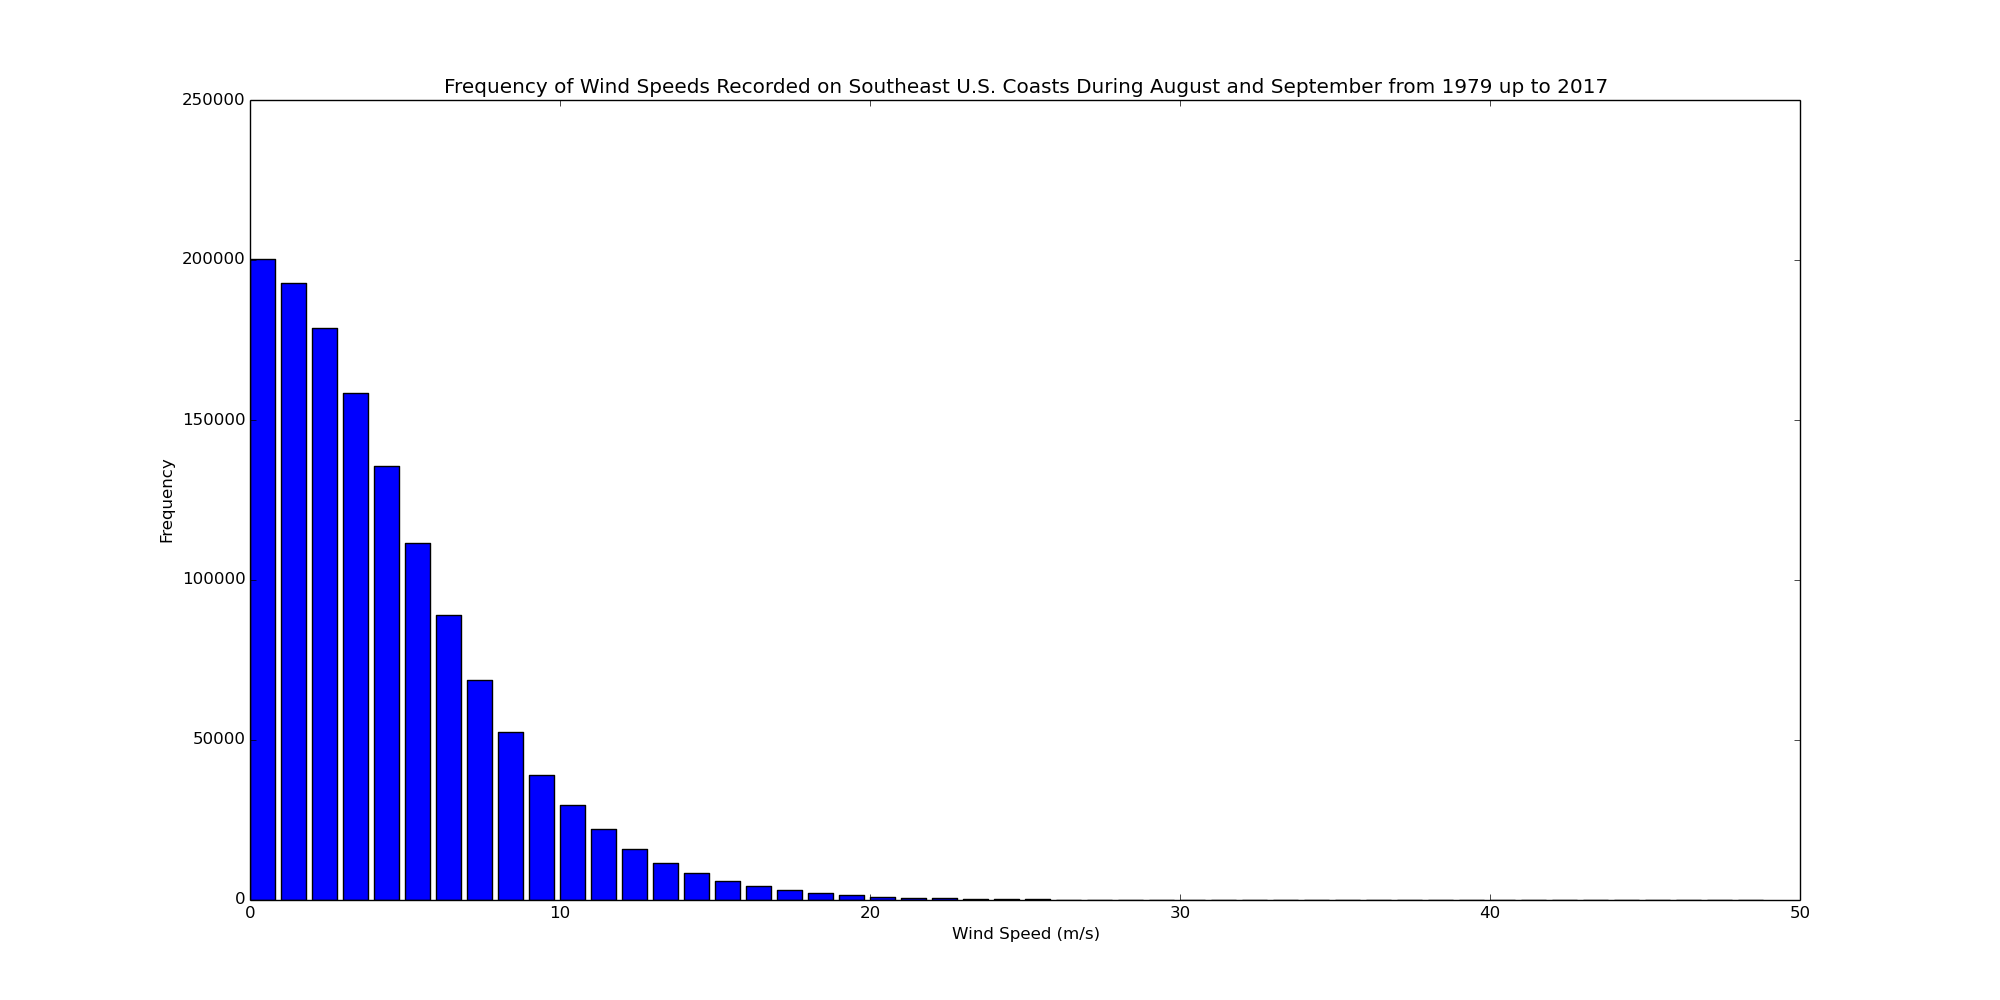
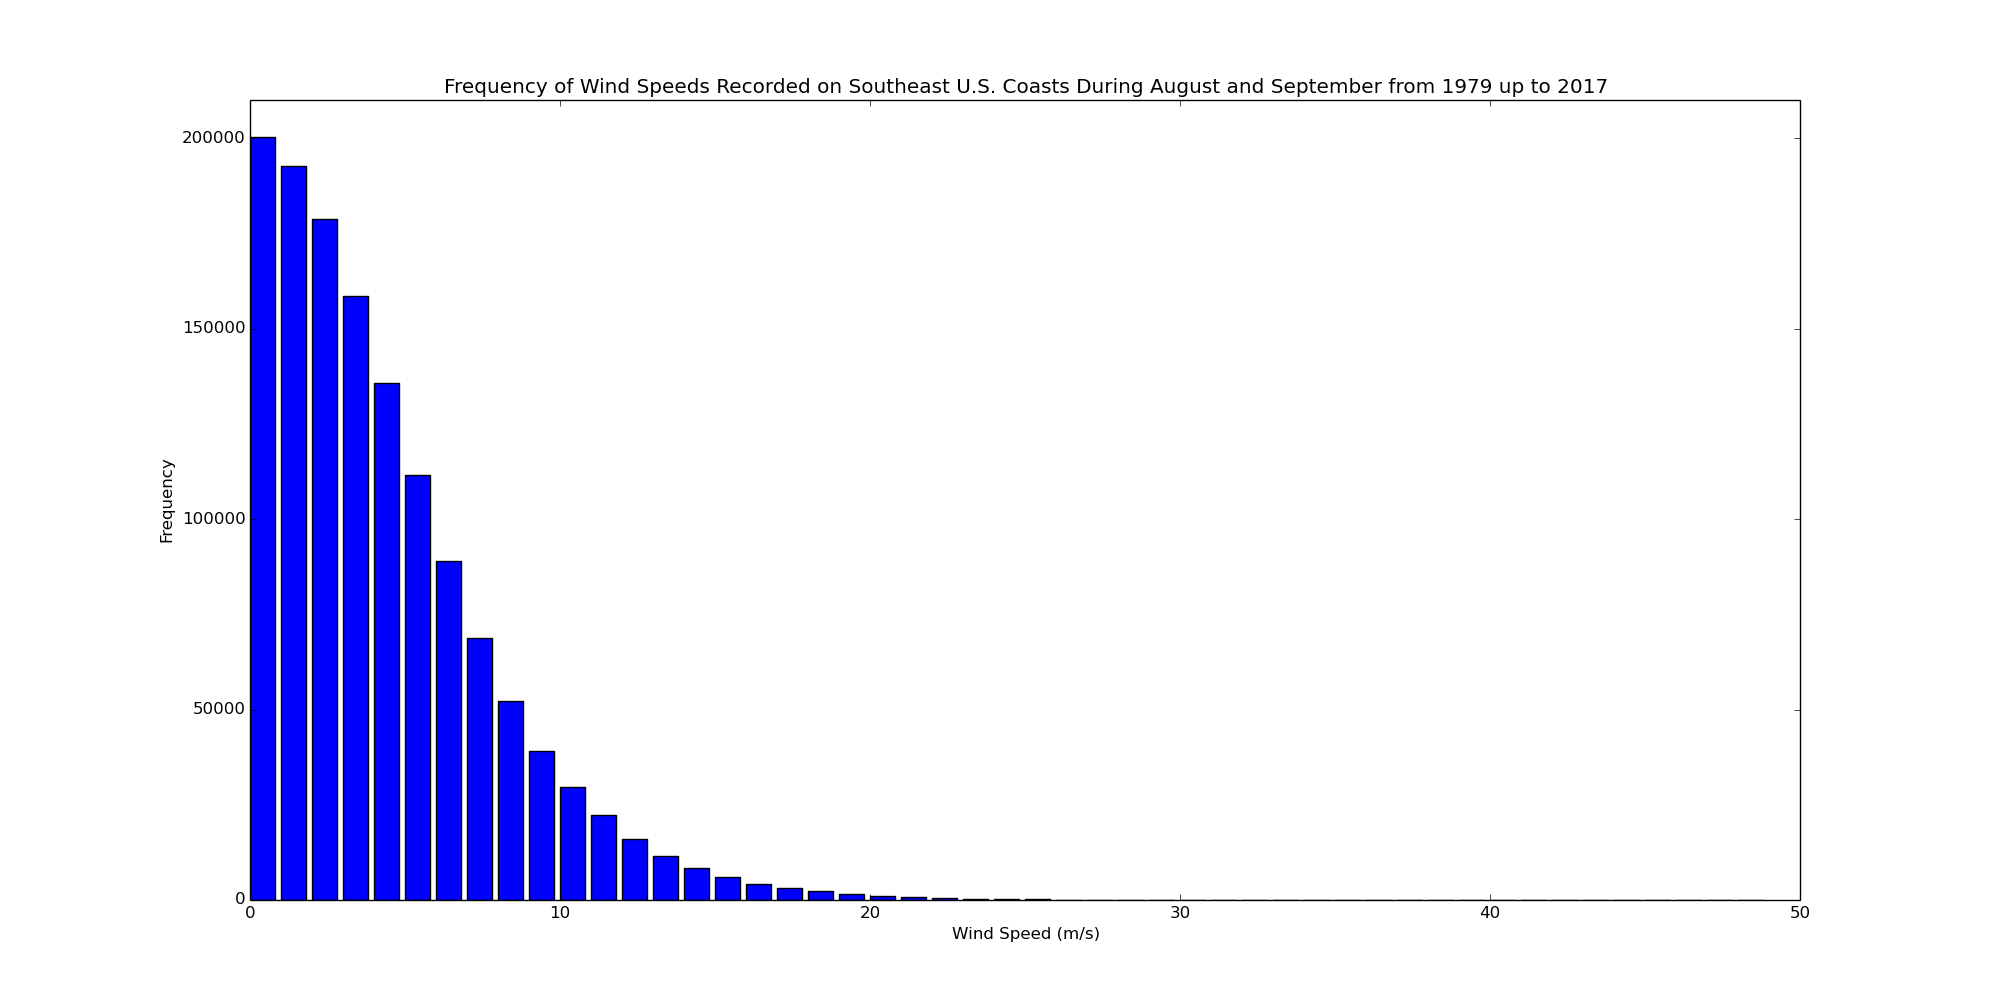
Updated figures

diff --git a/DLM_stats.py b/DLM_stats.py
@@ -278,6 +278,7 @@ getFrequencies(wind_speeds_79_16_LHS, wind_speed_freq_all_LHS)
 plt.figure(1, figsize = (20,10))
 plt.bar(np.arange(len(wind_speed_freq_all_MHS)), wind_speed_freq_all_EHS)
 plt.xlim(xmax = 50)
+plt.ylim(ymax = 210000)
 plt.ylabel('Frequency')
 plt.xlabel('Wind Speed (m/s)')
 plt.title('Frequency of Wind Speeds Recorded on Southeast U.S. Coasts During ' +
@@ -288,6 +289,7 @@ plt.show()
 plt.figure(1, figsize = (20,10))
 plt.bar(np.arange(len(wind_speed_freq_all_MHS)), wind_speed_freq_all_MHS)
 plt.xlim(xmax = 50)
+plt.ylim(ymax = 210000)
 plt.ylabel('Frequency')
 plt.xlabel('Wind Speed (m/s)')
 plt.title('Frequency of Wind Speeds Recorded on Southeast U.S. Coasts During ' +
@@ -298,6 +300,7 @@ plt.show()
 plt.figure(1, figsize = (20,10))
 plt.bar(np.arange(len(wind_speed_freq_all_LHS)), wind_speed_freq_all_LHS)
 plt.xlim(xmax = 50)
+plt.ylim(ymax = 210000)
 plt.ylabel('Frequency')
 plt.xlabel('Wind Speed (m/s)')
 plt.title('Frequency of Wind Speeds Recorded on Southeast U.S. Coasts During ' +
@@ -333,7 +336,7 @@ plt.figure(1, figsize = (20,10))
 plt.subplot(211)
 plt.bar(np.arange(len(wind_speed_freq_79_97)), wind_speed_freq_79_97)
 plt.xlim(xmax = 50)
-plt.ylim(ymax = 550000)
+plt.ylim(ymax = 250000)
 plt.ylabel('Frequency')
 plt.xlabel('Wind Speed (m/s)')
 plt.title('Frequency of Wind Speeds Recorded on Southeast U.S. Coasts During ' +
@@ -342,7 +345,7 @@ plt.title('Frequency of Wind Speeds Recorded on Southeast U.S. Coasts During ' +
 plt.subplot(212)
 plt.bar(np.arange(len(wind_speed_freq_98_16)), wind_speed_freq_98_16)
 plt.xlim(xmax = 50)
-plt.ylim(ymax = 550000)
+plt.ylim(ymax = 250000)
 plt.ylabel('Frequency')
 plt.xlabel('Wind Speed (m/s)')
 plt.title('Frequency of Wind Speeds Recorded on Southeast U.S. Coasts During ' +
@@ -515,6 +518,7 @@ plt.show()
 plt.figure(1, figsize = (20,10))
 plt.bar(np.arange(len(wind_speed_freq_LHS_diff)), wind_speed_freq_LHS_diff)
 plt.xlim(xmax = 50)
+plt.ylim(ymax = 5000)
 plt.ylabel('Frequency Difference')
 plt.xlabel('Wind Speed (m/s)')
 plt.title('Difference Between Frequency of Wind Speeds Recorded on Southeast U.S. coasts in October ' +
